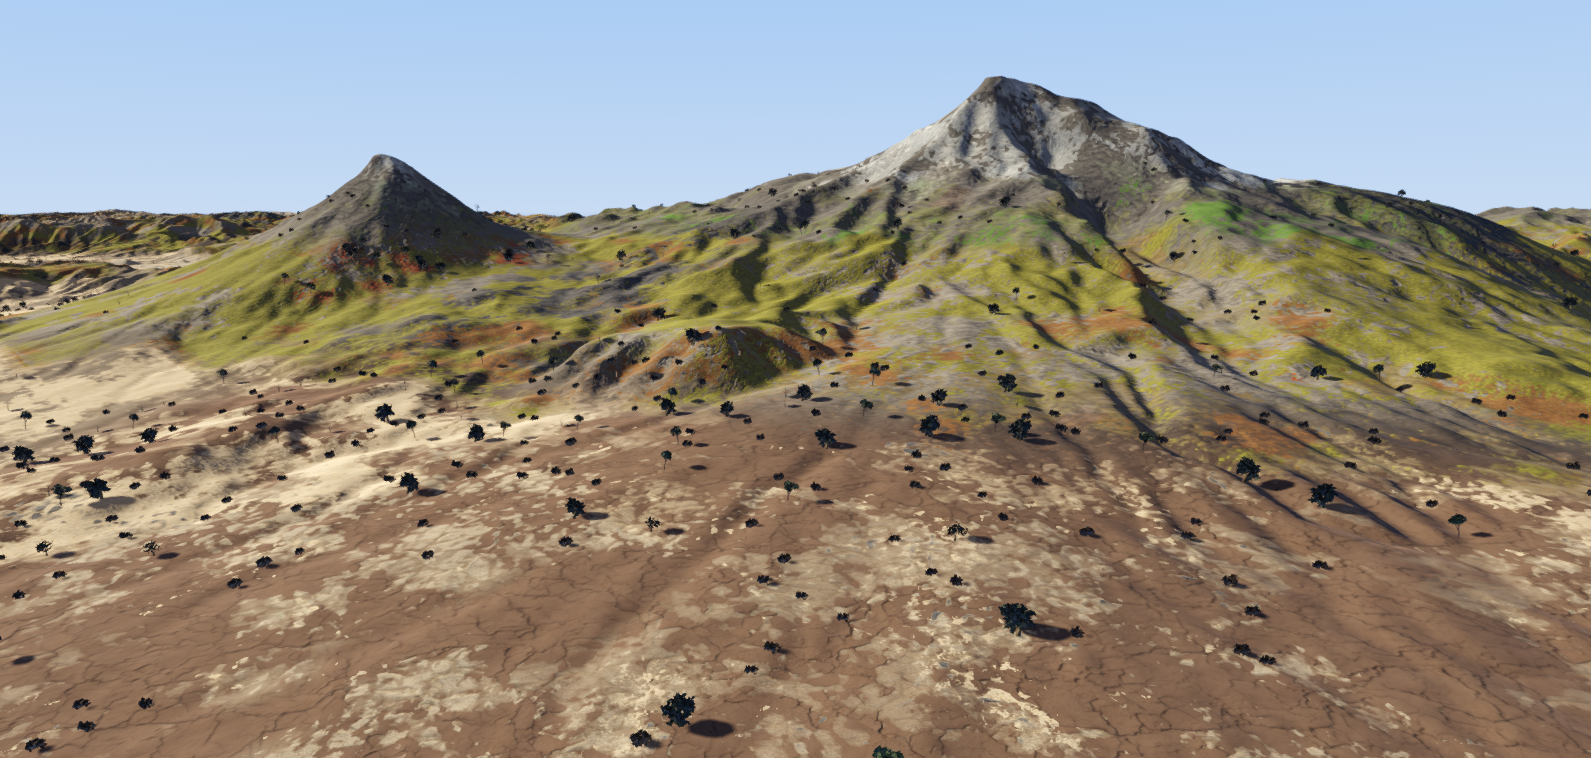
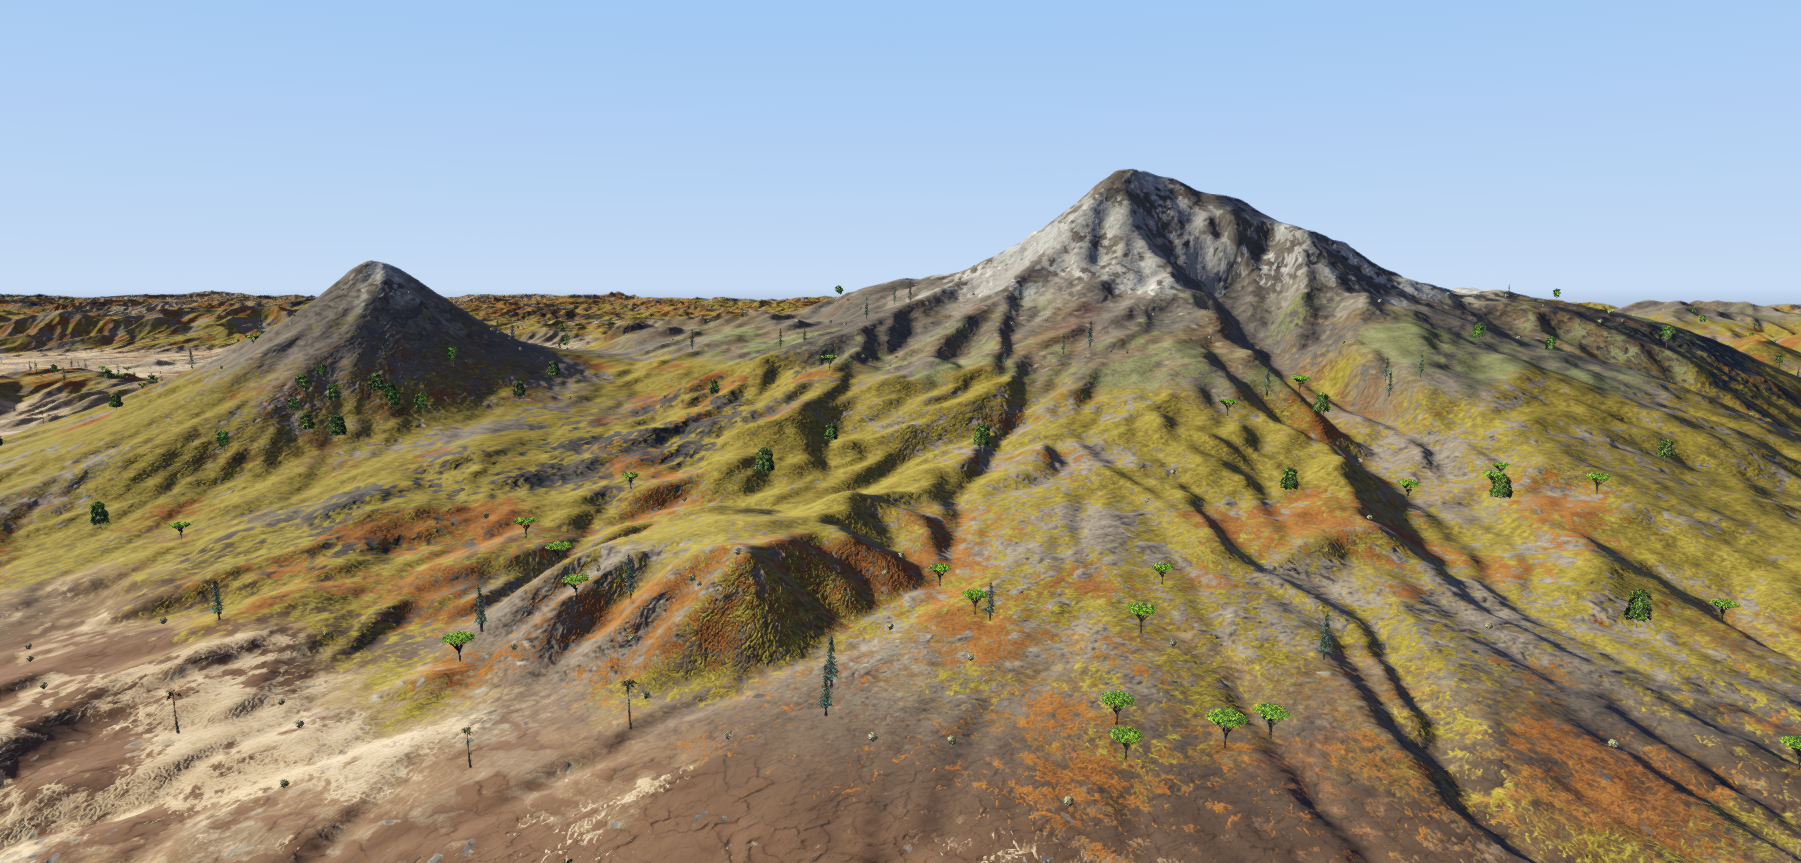
Rewrite showcase with updated images and marketing-focused copy

diff --git a/README.md b/README.md
@@ -1,10 +1,8 @@
 # Faber Terrae
 
-**3D terrain generation from real-world geographic data.**
+**The entire Earth, rendered.**
 
-Point it at any region on Earth. It builds accurate, layered 3D terrain — elevation, vegetation, rivers, lakes, climate, geology — ready for rendering.
-
-Built for simulation, geographic visualization, and game development. Define a region, get terrain. Everything between raw geographic data and final output is automated.
+One config file. Any region on the planet. Fully automated 3D terrain from real-world scientific data. No hand-painting. No manual texturing. Pure geography.
 
 ---
 
@@ -12,64 +10,93 @@ Built for simulation, geographic visualization, and game development. Define a r
 
 ---
 
-## How It Works
+## Any Place on Earth
 
-One config, fully automated pipeline, rendered terrain. It downloads satellite imagery, hydrological networks, climate classifications, and geological surveys, then fuses them into a unified multi-layer terrain.
+Alpine glacial valleys. Saharan sand seas. Tropical rainforest. Arctic tundra. Mediterranean coast. Volcanic highlands. Canyon systems carved by ancient rivers.
 
-## Capabilities
-
-- **Any region on Earth** — define a geographic bounding box, everything else is automatic
-- **10 scientific data sources** — satellite elevation, land cover, river networks, lakes, climate zones, geological composition, coastlines — downloaded and fused automatically
-- **5 terrain classification layers** — landform, vegetation, climate, lithology, surface type — combined per-pixel for natural variety without hand-painting
-- **River and lake modeling** — real-world river topology with discharge data, lake bathymetry from shoreline geometry
-- **Multi-resolution** — classification, terrain detail, and elevation at independent resolutions, scaling to tens of millions of pixels
-- **GPU-accelerated** — full region builds in minutes
-
----
+Define a bounding box. Get a rendered 3D world.
 
 <table>
   <tr>
-    <td align="center"><strong>Swiss Alps</strong><br><img src="images/Alps.png"></td>
-    <td align="center"><strong>Southern Andalusia</strong><br><img src="images/Andalusia.png"></td>
+    <td align="center"><img src="images/Swiss_Alps.png"><br><strong>Swiss Alps</strong></td>
+    <td align="center"><img src="images/Andalusia.png"><br><strong>Andalusia</strong></td>
   </tr>
   <tr>
-    <td align="center" colspan="2"><strong>Sinai Peninsula</strong><br><img src="images/Sinai.png" width="720"></td>
-  </tr>
-</table>
-
-*All generated from geographic data. No hand-painting, no manual texturing.*
-
----
-
-## Terrain Layers
-
-<table>
-  <tr>
-    <td align="center"><strong>Elevation</strong><br><img src="images/elevation.png" width="320"></td>
-    <td align="center"><strong>Landform</strong><br><img src="images/landform.png" width="320"></td>
-    <td align="center"><strong>Land Cover</strong><br><img src="images/cover.png" width="320"></td>
-  </tr>
-  <tr>
-    <td align="center"><strong>Climate</strong><br><img src="images/climate.png" width="320"></td>
-    <td align="center"><strong>Lithology</strong><br><img src="images/lithology.png" width="320"></td>
-    <td align="center"><strong>Lakes</strong><br><img src="images/lakes.png" width="320"></td>
+    <td align="center"><img src="images/Sinai.png"><br><strong>Sinai</strong></td>
+    <td align="center"><img src="images/Grand_Canyon.png"><br><strong>Grand Canyon</strong></td>
   </tr>
 </table>
 
 ---
 
-## Data Sources
+## Six Layers Per Pixel
 
-| Dataset | Type | Resolution | Provides |
-|---------|------|-----------|----------|
-| SRTM | Satellite | 30m | Elevation |
-| ESA WorldCover | Satellite | 10m | Land cover |
-| GLC_FCS30 | Satellite | 30m | Land cover refinement |
-| GBLU | Satellite | 30m | Landform classification |
-| HydroLAKES | Hydrological | Vector | Lake bodies |
-| HydroRIVERS | Hydrological | Vector | River networks + discharge |
-| Köppen-Geiger | Climate | ~1km | Climate zones |
-| GLiM | Geological | Vector | Rock types |
-| SoilGrids | Geological | 250m | Surface composition |
-| GSHHG | Geographic | Full-res | Coastlines |
+Elevation. Landform. Land cover. Climate. Geology. Surface composition. All derived from 10 satellite and scientific datasets at up to 10m resolution. Combined per-pixel — every surface looks the way it does because the real place looks that way.
 
+<table>
+  <tr>
+    <td align="center"><img src="images/elevation.png" width="320"><br><strong>Elevation</strong></td>
+    <td align="center"><img src="images/landform.png" width="320"><br><strong>Landform</strong></td>
+    <td align="center"><img src="images/cover.png" width="320"><br><strong>Land Cover</strong></td>
+  </tr>
+  <tr>
+    <td align="center"><img src="images/climate.png" width="320"><br><strong>Climate</strong></td>
+    <td align="center"><img src="images/lithology.png" width="320"><br><strong>Lithology</strong></td>
+    <td align="center"><img src="images/lakes.png" width="320"><br><strong>Lakes</strong></td>
+  </tr>
+</table>
+
+---
+
+## 100+ Terrain Textures
+
+Ground, rock, sand, snow, moss, marsh, riverbeds, cliff strata — driven by geology, climate, and weathering. Multi-layer height blending with no repeating visual patterns.
+
+Mountains show the correct rock type. Soils shift with volcanic, calcareous, or sedimentary substrate. Beaches go from coral white in the tropics to dark gravel in the Arctic. Cliff faces reveal real sedimentary strata. Riverbeds carry climate-appropriate sediment.
+
+No two regions look the same, because no two regions are the same.
+
+---
+
+## 50+ Vegetation Species
+
+Ecologically accurate. Placed by ecosystem, not by hand.
+
+Temperate forests: oaks, beeches, ashes, hollies. Mediterranean: cork oaks, olives, umbrella pines, maquis. Tropical: palms, bamboo, baobabs, giant broadleaf canopy. Boreal taiga: spruce, pine, larch, birch. Steppe: sagebrush, saltbush. Tundra: dwarf willows, crowberry on permafrost.
+
+Every species at the right scale, the right density, in the right biome.
+
+---
+
+## Rivers and Lakes
+
+Real river networks from global hydrological data. Real topology, real discharge, real depth. Carved valleys with water surface geometry.
+
+Real lake shorelines with bathymetry.
+
+---
+
+## 10 Scientific Data Sources
+
+| Source | Resolution | Provides |
+|--------|-----------|----------|
+| Copernicus GLO-30 | 30 m | Elevation |
+| ESA WorldCover | 10 m | Land cover |
+| GLC_FCS30 | 30 m | Land cover refinement |
+| GBLU | 30 m | Landform classification |
+| HydroLAKES | Vector | Lake geometry |
+| HydroRIVERS | Vector | River networks + discharge |
+| Köppen-Geiger | ~1 km | Climate zones |
+| GLiM | Vector | Rock types |
+| SoilGrids | 250 m | Surface composition |
+| GSHHG | Full-res | Coastlines |
+
+All downloaded automatically for any region.
+
+---
+
+## GPU-Accelerated
+
+Full region builds in minutes. Multi-resolution output scaling to tens of millions of pixels.
+
+Dynamic lighting. **Godot 4** and **Unreal Engine 5**.
